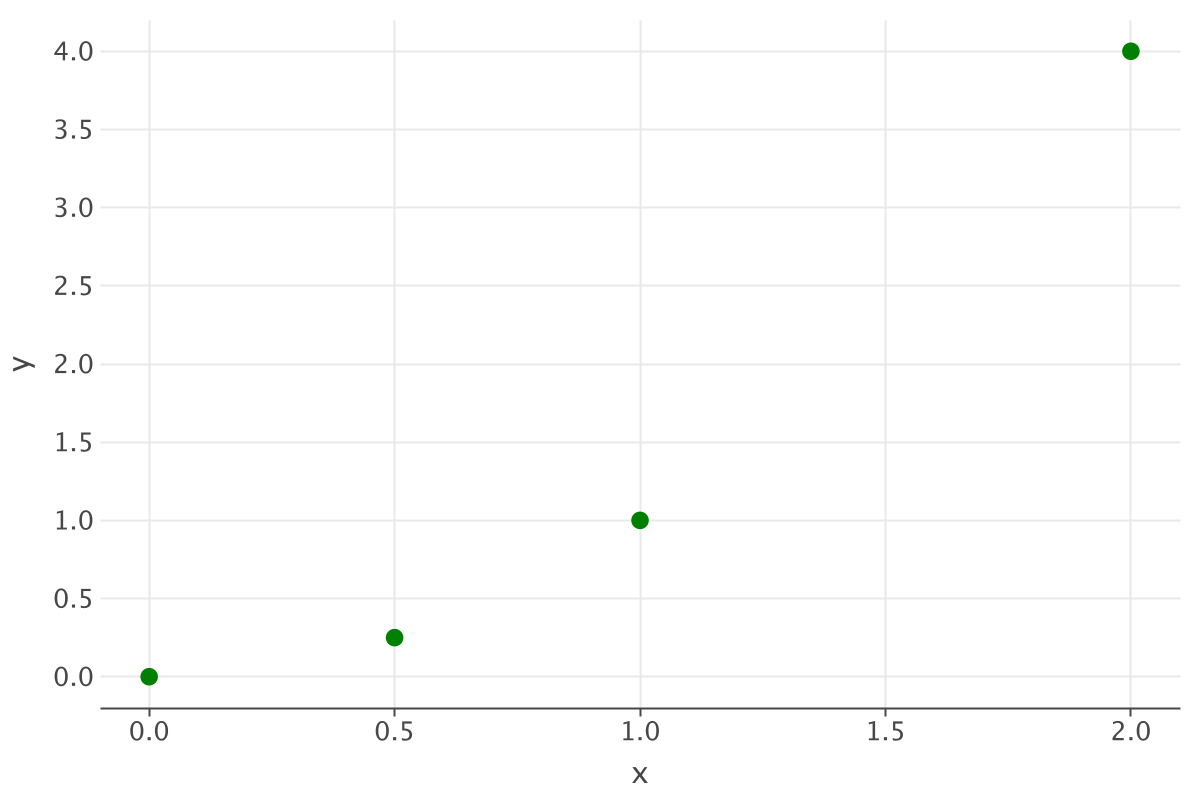
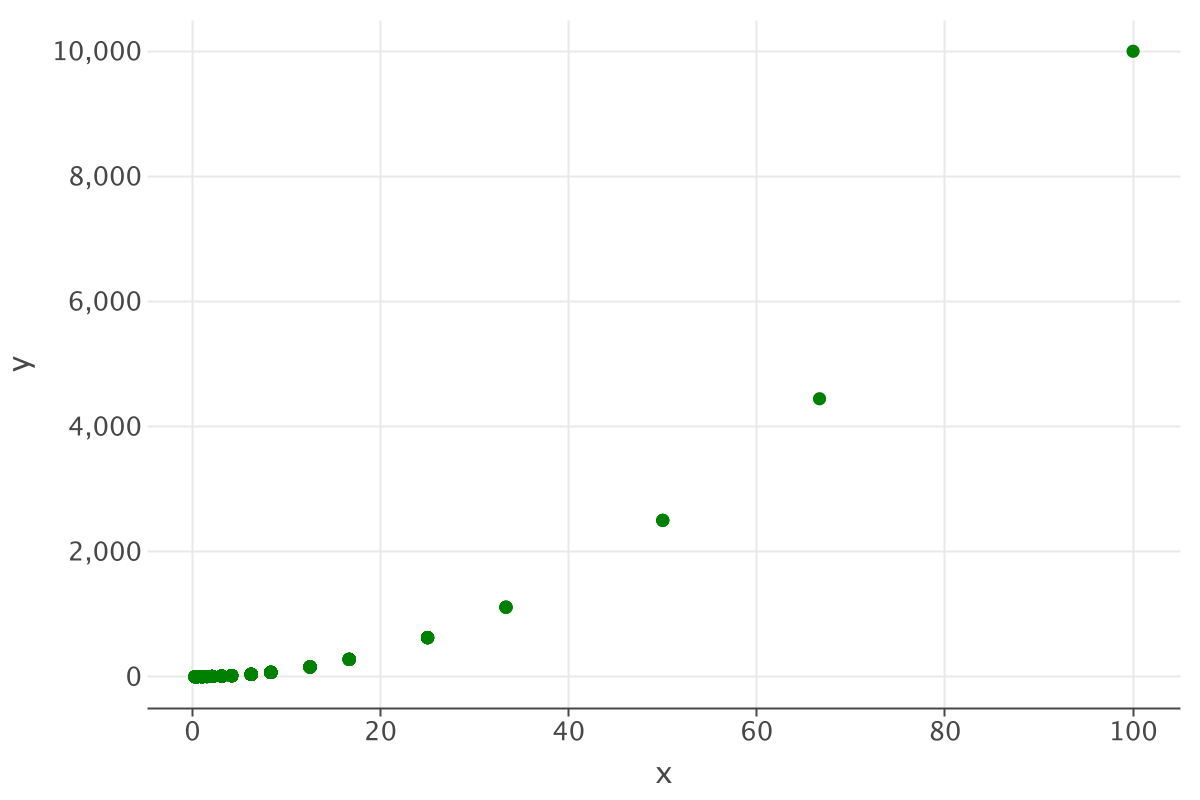
plotting branch events

diff --git a/src/main/java/com/molchanovai/mcintegral/integral.kt b/src/main/java/com/molchanovai/mcintegral/integral.kt
@@ -5,6 +5,9 @@ import com.molchanovai.mcintegral.math.MCFunction
 import com.molchanovai.mcintegral.stats.Distribution
 import kotlinx.coroutines.*
 import kotlinx.coroutines.flow.*
+import org.jetbrains.letsPlot.export.ggsave
+import org.jetbrains.letsPlot.geom.geomPoint
+import org.jetbrains.letsPlot.letsPlot
 
 // TODO: add mode how to run: one thread or otherwise
 class Integral(
@@ -30,12 +33,22 @@ class Integral(
       branch(Cell(0f, x = 0.0))
 
       var timePassed = 0L
+      val xs = mutableListOf<Double>()
       messages.takeWhile {
         timePassed < 100000L
       }.collect {
         timePassed++
-        if (it is EventBase.EventTerminate) {
-          println(func(it.cell.x))
+        if (it is EventBase.BranchEvent) {
+          println(func(it.child.x))
+          xs.add(it.child.x)
+          val ys = xs.map { x -> func(x) }
+          val data = mapOf<String, Any>("x" to xs, "y" to ys)
+
+          val fig = letsPlot(data) + geomPoint(
+            color = "dark-green",
+          ) { x = "x"; y = "y" }
+
+          ggsave(fig, "plot.png")
         }
       }
       println("END")

diff --git a/src/main/java/com/molchanovai/mcintegral/main.kt b/src/main/java/com/molchanovai/mcintegral/main.kt
@@ -6,17 +6,6 @@ import org.jetbrains.letsPlot.geom.geomPoint
 import org.jetbrains.letsPlot.letsPlot
 
 fun main() {
-  val xs = listOf(0,  0.5, 1, 2)
-  val ys = listOf(0, 0.25, 1, 4)
-  val data = mapOf<String, Any>("x" to xs, "y" to ys)
-
-  val fig = letsPlot(data) + geomPoint(
-    color = "dark-green",
-    size = 4.0
-  ) { x = "x"; y = "y" }
-
-  ggsave(fig, "plot.png")
-
   val integral = Integral(MCFunction { x -> x * x - 3 })
   integral.start()
 }

diff --git a/src/main/java/com/molchanovai/mcintegral/events/Events.kt b/src/main/java/com/molchanovai/mcintegral/events/Events.kt
@@ -4,5 +4,5 @@ import com.molchanovai.mcintegral.Cell
 
 sealed class EventBase {
   data class EventTerminate(val cell: Cell): EventBase()
-  data class BranchEvent(private val parent: Cell, private val child: Cell): EventBase()
+  data class BranchEvent(private val parent: Cell, val child: Cell): EventBase()
 }
